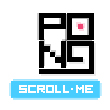
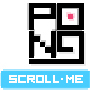
new motion

diff --git a/source/motion/intro_hype_generated_script.js b/source/motion/intro_hype_generated_script.js
@@ -48,7 +48,7 @@
 	
 	var attributeTransformerMapping = {b:"i",c:"i",bC:"i",d:"i",aS:"i",M:"i",e:"f",N:"i",f:"d",aT:"i",O:"i",g:"c",aU:"i",P:"i",Q:"i",aV:"i",R:"c",aW:"f",S:"i",aI:"i",T:"i",l:"d",aX:"i",aJ:"i",m:"c",n:"c",aK:"i",aZ:"i",X:"i",A:"c",Y:"i",aL:"i",B:"c",C:"c",D:"c",t:"i",E:"i",G:"c",bA:"c",a:"i",bB:"i"};
 
-var scenes = [{onSceneAnimationCompleteAction:{type:4,javascriptOid:"19"},timelines:{kTimelineDefaultIdentifier:{framesPerSecond:30,animations:[{f:"4",t:0,d:0.83333331,i:"a",e:-213,r:1,s:-300,o:"2"},{f:"4",t:0,d:0.83333331,i:"b",e:-162,r:1,s:-165,o:"2"},{f:"0",t:0,d:0.1,i:"e",e:"1.000000",r:1,s:"0.000000",o:"9"},{f:"0",t:0.1,d:0.06666667,i:"e",e:"0.320000",s:"1.000000",o:"9"},{f:"0",t:0.16666667,d:0.066666663,i:"e",e:"1.000000",s:"0.320000",o:"9"},{f:"0",t:0.23333333,d:0.13333334,i:"e",e:"0.540000",s:"1.000000",o:"9"},{f:"0",t:0.36666667,d:0.099999994,i:"e",e:"1.000000",s:"0.540000",o:"9"},{f:"4",t:0.46666667,d:0.20000002,i:"e",e:"1.000000",r:1,s:"0.000000",o:"7"},{f:"1",t:0.46666667,d:0.60000002,i:"b",e:144,r:1,s:47,o:"7"},{f:"4",t:0.46666667,d:0.20000002,i:"e",e:"1.000000",r:1,s:"0.000000",o:"8"},{f:"1",t:0.46666667,d:0.49999997,i:"b",e:29,r:1,s:131,o:"8"},{f:"1",t:0.46666667,d:0.36666664,i:"a",e:261,r:1,s:198,o:"9"},{f:"1",t:0.46666667,d:0.36666664,i:"b",e:88,r:1,s:135,o:"9"},{f:"1",t:0.46666667,d:1.6333332,i:"e",e:"1.000000",s:"1.000000",o:"9"},{f:"1",t:0.66666669,d:1.4666667,i:"e",e:"1.000000",s:"1.000000",o:"7"},{f:"1",t:0.66666669,d:1.4333332,i:"e",e:"1.000000",s:"1.000000",o:"8"},{f:"1",t:0.83333331,d:0.36666673,i:"a",e:142,s:261,o:"9"},{f:"1",t:0.83333331,d:0.36666673,i:"b",e:145,s:88,o:"9"},{f:"1",t:0.96666664,d:0.59999996,i:"b",e:131,s:29,o:"8"},{f:"4",t:1.0666667,d:0.5666666,i:"b",e:47,s:144,o:"7"},{f:"1",t:1.2,d:0.43333328,i:"a",e:261,s:142,o:"9"},{f:"1",t:1.2,d:0.43333328,i:"b",e:200,s:145,o:"9"},{f:"1",t:1.5666666,d:0.60000014,i:"b",e:43,s:131,o:"8"},{f:"1",t:1.6333333,d:0.63333333,i:"b",e:151,s:47,o:"7"},{f:"1",t:1.6333333,d:0.50000012,i:"a",e:142,s:261,o:"9"},{f:"1",t:1.6333333,d:0.50000012,i:"b",e:57,s:200,o:"9"},{f:"1",t:2.0999999,d:0.4333334,i:"e",e:"0.000000",s:"1.000000",o:"8"},{f:"1",t:2.0999999,d:0.33333349,i:"e",e:"0.000000",s:"1.000000",o:"9"},{f:"1",t:2.1333334,d:0.43333316,i:"e",e:"0.000000",s:"1.000000",o:"7"},{f:"1",t:2.1333334,d:0.5333333,i:"a",e:261,s:142,o:"9"},{f:"1",t:2.1333334,d:0.5333333,i:"b",e:83,s:57,o:"9"},{f:"1",t:2.1666667,d:0.5666666,i:"b",e:131,s:43,o:"8"},{f:"4",t:2.2666667,d:0.5,i:"b",e:47,s:151,o:"7"}],identifier:"kTimelineDefaultIdentifier",name:"Main Timeline",duration:2.7666667}},sceneIndex:0,perspective:"600px",initialValues:{"8":{o:"content-box",h:"barRight.jpg",x:"visible",a:458,q:"100% 100%",b:131,j:"absolute",r:"inline",c:37,z:"3",k:"div",d:233,e:"0.000000"},"9":{o:"content-box",h:"logoPong.jpg",x:"visible",a:198,q:"100% 100%",b:135,j:"absolute",r:"inline",c:197,z:"4",k:"div",d:198,e:"0.000000"},"7":{o:"content-box",h:"barLeft.jpg",x:"visible",a:105,q:"100% 100%",b:47,j:"absolute",r:"inline",c:37,z:"2",k:"div",d:233,e:"0.000000"},"2":{o:"content-box",h:"scrollpong_intro.jpg",x:"visible",a:-300,q:"100% 100%",b:-165,j:"absolute",r:"none",c:1200,k:"div",z:"1",d:794}},oid:"1",backgroundColor:"#FFFFFF",name:"intro"},{timelines:{kTimelineDefaultIdentifier:{framesPerSecond:30,animations:[{f:"2",t:0,d:0.16666667,i:"e",e:"1.000000",r:1,s:"0.000000",o:"21"},{f:"2",t:0,d:0.16666667,i:"d",e:156,r:1,s:84,o:"21"},{f:"2",t:0,d:0.16666667,i:"a",e:218,r:1,s:300,o:"21"},{f:"2",t:0,d:0.16666667,i:"b",e:166,r:1,s:202,o:"21"},{f:"2",t:0,d:0.16666667,i:"c",e:353,r:1,s:189,o:"21"},{f:"2",t:0.16666667,d:0.16666667,i:"d",e:132,s:156,o:"21"},{f:"2",t:0.16666667,d:0.16666667,i:"a",e:245,s:218,o:"21"},{f:"2",t:0.16666667,d:0.16666667,i:"b",e:178,s:166,o:"21"},{f:"2",t:0.16666667,d:0.16666667,i:"c",e:299,s:353,o:"21"},{f:"4",t:0.2,d:0.10000001,i:"e",e:"1.000000",r:1,s:"0.000000",o:"31"},{f:"2",t:0.23333333,d:0.26666665,i:"c",e:237,r:1,s:12,o:"25"},{f:"2",t:0.23333333,d:0.26666665,i:"b",e:19,r:1,s:198,o:"25"},{f:"2",t:0.23333333,d:0.26666665,i:"a",e:42,r:1,s:265,o:"25"},{f:"2",t:0.23333333,d:0.26666665,i:"f",e:"0deg",r:1,s:"73deg",o:"25"},{f:"2",t:0.23333333,d:0.26666665,i:"d",e:192,r:1,s:10,o:"25"},{f:"2",t:0.23333333,d:0.10000001,i:"e",e:"1.000000",r:1,s:"0.000000",o:"25"},{f:"2",t:0.5,d:0.23333335,i:"c",e:217,s:237,o:"25"},{f:"2",t:0.5,d:0.23333335,i:"b",e:34,s:19,o:"25"},{f:"2",t:0.5,d:0.23333335,i:"a",e:61,s:42,o:"25"},{f:"2",t:0.5,d:0.23333335,i:"d",e:176,s:192,o:"25"},{f:"4",t:1.2,d:0.16666663,i:"a",e:373,r:1,s:344,o:"23"},{f:"4",t:1.2,d:0.099999905,i:"e",e:"1.000000",r:1,s:"0.000000",o:"23"},{f:"2",t:1.3666667,d:0.23333335,i:"b",e:343,r:1,s:359,o:"27"},{f:"2",t:1.3666667,d:0.10000002,i:"e",e:"1.000000",r:1,s:"0.000000",o:"27"},{f:"4",t:1.6,d:0.16666663,i:"a",e:373,r:1,s:343,o:"26"},{f:"4",t:1.6,d:0.10000002,i:"e",e:"1.000000",r:1,s:"0.000000",o:"26"},{f:"2",t:1.7666667,d:0.10000002,i:"e",e:"1.000000",r:1,s:"0.000000",o:"24"},{f:"2",t:1.7666667,d:0.23333335,i:"b",e:375,r:1,s:365,o:"24"}],identifier:"kTimelineDefaultIdentifier",name:"Main Timeline",duration:2}},sceneIndex:1,onSceneKeyUpAction:{type:0},perspective:"600px",initialValues:{"26":{o:"content-box",w:"",h:"icoFb.jpg",x:"visible",a:343,q:"100% 100%",b:375,j:"absolute",r:"inline",aA:{type:4,javascriptOid:"30"},c:22,z:"6",d:20,k:"div",t:17,e:"0.000000",aP:"pointer"},"21":{o:"content-box",h:"boxPoints.jpg",x:"visible",a:300,q:"100% 100%",b:202,j:"absolute",r:"inline",c:189,z:"2",k:"div",d:84,e:"0.000000"},"24":{o:"content-box",h:"txt_share.png",x:"visible",a:399,q:"100% 100%",b:365,j:"absolute",r:"inline",aA:{type:4,javascriptOid:"30"},c:90,z:"7",d:20,k:"div",e:"0.000000",aP:"pointer"},"27":{o:"content-box",h:"txtPlayAgain.png",x:"visible",a:399,q:"100% 100%",b:359,j:"absolute",r:"inline",aA:{type:4,javascriptOid:"29"},c:160,z:"5",d:20,k:"div",e:"0.000000",aP:"pointer"},"22":{o:"content-box",h:"scrollpong_gameover.jpg",x:"visible",a:-183,q:"100% 100%",b:-182,j:"absolute",r:"none",c:1200,k:"div",z:"1",d:794},"25":{o:"content-box",h:"gameOver.png",p:"no-repeat",x:"visible",a:265,q:"100% 100%",b:198,j:"absolute",r:"inline",c:12,z:"3",k:"div",d:10,aY:"0",e:"0.000000",f:"73deg"},"23":{o:"content-box",h:"ico_playAgain.jpg",x:"visible",a:344,q:"100% 100%",b:342,j:"absolute",r:"inline",aA:{type:4,javascriptOid:"29"},c:22,z:"4",d:20,k:"div",e:"0.000000",aP:"pointer"},"31":{aU:0,G:"#000000",c:134,aV:0,r:"inline",d:40,e:"0.000000",X:0,t:25,Y:65,aX:0,Z:"break-word",i:"animScore",w:"New Text",j:"absolute",x:"visible",k:"div",y:"preserve",z:"8",aS:0,aT:0,a:401,F:"center",b:237}},oid:"28",backgroundColor:"#FFFFFF",name:"game over"}];
+var scenes = [{onSceneAnimationCompleteAction:{type:4,javascriptOid:"19"},timelines:{kTimelineDefaultIdentifier:{framesPerSecond:30,animations:[{f:"0",t:0.033333335,d:0.10000001,i:"e",e:"1.000000",r:1,s:"0.000000",o:"9"},{f:"0",t:0.13333334,d:0.066666663,i:"e",e:"0.320000",s:"1.000000",o:"9"},{f:"0",t:0.2,d:0.066666678,i:"e",e:"1.000000",s:"0.320000",o:"9"},{f:"0",t:0.26666668,d:0.13333333,i:"e",e:"0.540000",s:"1.000000",o:"9"},{f:"1",t:0.33333334,d:0.79999995,i:"a",e:194,r:1,s:280,o:"7"},{f:"1",t:0.33333334,d:0.66666663,i:"a",e:222,r:1,s:100,o:"8"},{f:"3",t:0.36666667,d:0.30000001,i:"b",e:172,r:1,s:177,o:"9"},{f:"3",t:0.36666667,d:0.30000001,i:"a",e:255,r:1,s:268,o:"9"},{f:"0",t:0.40000001,d:0.099999994,i:"e",e:"1.000000",s:"0.540000",o:"9"},{f:"4",t:0.46666667,d:0.29999998,i:"e",e:"1.000000",r:1,s:"0.000000",o:"7"},{f:"1",t:0.5,d:1.7666667,i:"e",e:"1.000000",s:"1.000000",o:"9"},{f:"4",t:0.56666666,d:0.26666665,i:"e",e:"1.000000",r:1,s:"0.000000",o:"8"},{f:"3",t:0.66666669,d:0.36666662,i:"a",e:265,s:255,o:"9"},{f:"3",t:0.66666669,d:0.36666662,i:"b",e:182,s:172,o:"9"},{f:"1",t:0.76666665,d:1.5,i:"e",e:"1.000000",s:"1.000000",o:"7"},{f:"1",t:0.83333331,d:1.4666667,i:"e",e:"1.000000",s:"1.000000",o:"8"},{f:"1",t:1,d:0.86666667,i:"a",e:130,s:222,o:"8"},{f:"3",t:1.0333333,d:0.4333334,i:"b",e:172,s:182,o:"9"},{f:"3",t:1.0333333,d:0.4333334,i:"a",e:277,s:265,o:"9"},{f:"1",t:1.1333333,d:0.80000007,i:"a",e:280,s:194,o:"7"},{f:"3",t:1.4666667,d:0.39999998,i:"b",e:182,s:172,o:"9"},{f:"3",t:1.4666667,d:0.39999998,i:"a",e:288,s:277,o:"9"},{f:"3",t:1.8666667,d:0.43333328,i:"b",e:172,s:182,o:"9"},{f:"3",t:1.8666667,d:0.43333328,i:"a",e:265,s:288,o:"9"},{f:"1",t:1.8666667,d:0.66666663,i:"a",e:216,s:130,o:"8"},{f:"1",t:1.9333334,d:0.5,i:"a",e:194,s:280,o:"7"},{f:"1",t:2.2666667,d:0.33333325,i:"e",e:"0.000000",s:"1.000000",o:"7"},{f:"1",t:2.2666667,d:0.33333325,i:"e",e:"0.000000",s:"1.000000",o:"9"},{f:"3",t:2.3,d:0.4666667,i:"b",e:188,s:172,o:"9"},{f:"3",t:2.3,d:0.4666667,i:"a",e:254,s:265,o:"9"},{f:"1",t:2.3,d:0.36666679,i:"e",e:"0.000000",s:"1.000000",o:"8"},{f:"1",t:2.4333334,d:0.5,i:"a",e:280,s:194,o:"7"},{f:"1",t:2.5333333,d:0.4000001,i:"a",e:128,s:216,o:"8"}],identifier:"kTimelineDefaultIdentifier",name:"Main Timeline",duration:2.9333334}},sceneIndex:0,perspective:"600px",initialValues:{"8":{o:"content-box",h:"barRight2.png",p:"no-repeat",x:"visible",a:100,q:"100% 100%",b:136,j:"absolute",r:"inline",c:221,z:"4",k:"div",d:35,e:"0.000000"},"36":{o:"content-box",h:"guide.jpg",x:"visible",a:-301,q:"100% 100%",b:-183,j:"absolute",r:"none",c:1201,k:"div",z:"2",d:734},"9":{o:"content-box",w:"",h:"logoPong.jpg",p:"no-repeat",x:"visible",a:268,q:"100% 100%",b:177,j:"absolute",r:"inline",c:64,z:"5",k:"div",d:64,t:17,e:"0.000000"},"7":{o:"content-box",h:"barLeft2.png",p:"no-repeat",x:"visible",a:280,q:"100% 100%",b:246,j:"absolute",r:"inline",c:221,z:"3",k:"div",d:35,e:"0.000000"}},oid:"1",backgroundColor:"#FFFFFF",name:"intro"},{timelines:{kTimelineDefaultIdentifier:{framesPerSecond:30,animations:[{f:"2",t:0,d:0.16666667,i:"e",e:"1.000000",r:1,s:"0.000000",o:"21"},{f:"2",t:0,d:0.16666667,i:"d",e:156,r:1,s:84,o:"21"},{f:"2",t:0,d:0.16666667,i:"a",e:218,r:1,s:300,o:"21"},{f:"2",t:0,d:0.16666667,i:"b",e:166,r:1,s:202,o:"21"},{f:"2",t:0,d:0.16666667,i:"c",e:353,r:1,s:189,o:"21"},{f:"2",t:0.16666667,d:0.16666667,i:"d",e:132,s:156,o:"21"},{f:"2",t:0.16666667,d:0.16666667,i:"a",e:245,s:218,o:"21"},{f:"2",t:0.16666667,d:0.16666667,i:"b",e:178,s:166,o:"21"},{f:"2",t:0.16666667,d:0.16666667,i:"c",e:299,s:353,o:"21"},{f:"4",t:0.2,d:0.10000001,i:"e",e:"1.000000",r:1,s:"0.000000",o:"34"},{f:"2",t:0.23333333,d:0.26666665,i:"c",e:237,r:1,s:12,o:"25"},{f:"2",t:0.23333333,d:0.26666665,i:"b",e:19,r:1,s:198,o:"25"},{f:"2",t:0.23333333,d:0.26666665,i:"a",e:42,r:1,s:265,o:"25"},{f:"2",t:0.23333333,d:0.26666665,i:"f",e:"0deg",r:1,s:"73deg",o:"25"},{f:"2",t:0.23333333,d:0.26666665,i:"d",e:192,r:1,s:10,o:"25"},{f:"2",t:0.23333333,d:0.10000001,i:"e",e:"1.000000",r:1,s:"0.000000",o:"25"},{f:"2",t:0.5,d:0.23333335,i:"c",e:217,s:237,o:"25"},{f:"2",t:0.5,d:0.23333335,i:"b",e:34,s:19,o:"25"},{f:"2",t:0.5,d:0.23333335,i:"a",e:61,s:42,o:"25"},{f:"2",t:0.5,d:0.23333335,i:"d",e:176,s:192,o:"25"},{f:"4",t:1.2,d:0.16666663,i:"a",e:373,r:1,s:344,o:"23"},{f:"4",t:1.2,d:0.099999905,i:"e",e:"1.000000",r:1,s:"0.000000",o:"23"},{f:"2",t:1.3666667,d:0.23333335,i:"b",e:343,r:1,s:359,o:"27"},{f:"2",t:1.3666667,d:0.10000002,i:"e",e:"1.000000",r:1,s:"0.000000",o:"27"},{f:"4",t:1.6,d:0.16666663,i:"a",e:373,r:1,s:343,o:"26"},{f:"4",t:1.6,d:0.10000002,i:"e",e:"1.000000",r:1,s:"0.000000",o:"26"},{f:"2",t:1.7666667,d:0.10000002,i:"e",e:"1.000000",r:1,s:"0.000000",o:"24"},{f:"2",t:1.7666667,d:0.23333335,i:"b",e:375,r:1,s:365,o:"24"}],identifier:"kTimelineDefaultIdentifier",name:"Main Timeline",duration:2}},sceneIndex:1,onSceneKeyUpAction:{type:0},perspective:"600px",initialValues:{"26":{o:"content-box",w:"",h:"icoFb.jpg",x:"visible",a:343,q:"100% 100%",b:375,j:"absolute",r:"inline",aA:{type:4,javascriptOid:"30"},c:22,z:"6",d:20,k:"div",t:17,e:"0.000000",aP:"pointer"},"34":{aU:8,G:"#000000",c:129,aV:8,r:"inline",d:52,e:"0.000000",t:16,aX:2.68255,Z:"break-word",i:"animScore",w:"New Text",j:"absolute",x:"visible",k:"div",y:"preserve",z:"9",aS:8,aT:8,a:399,F:"left",b:210},"21":{o:"content-box",h:"boxPoints.jpg",x:"visible",a:300,q:"100% 100%",b:202,j:"absolute",r:"inline",c:189,z:"2",k:"div",d:84,e:"0.000000"},"24":{o:"content-box",h:"txt_share.png",x:"visible",a:399,q:"100% 100%",b:365,j:"absolute",r:"inline",aA:{type:4,javascriptOid:"30"},c:90,z:"7",d:20,k:"div",e:"0.000000",aP:"pointer"},"27":{o:"content-box",h:"txtPlayAgain.png",x:"visible",a:399,q:"100% 100%",b:359,j:"absolute",r:"inline",aA:{type:4,javascriptOid:"29"},c:160,z:"5",d:20,k:"div",e:"0.000000",aP:"pointer"},"22":{o:"content-box",h:"scrollpong_gameover.jpg",x:"visible",a:-183,q:"100% 100%",b:-182,j:"absolute",r:"none",c:1200,k:"div",z:"1",d:794},"25":{o:"content-box",h:"gameOver.png",p:"no-repeat",x:"visible",a:265,q:"100% 100%",b:198,j:"absolute",r:"inline",c:12,z:"3",k:"div",d:10,aY:"0",e:"0.000000",f:"73deg"},"23":{o:"content-box",h:"ico_playAgain.jpg",x:"visible",a:344,q:"100% 100%",b:342,j:"absolute",r:"inline",aA:{type:4,javascriptOid:"29"},c:22,z:"4",d:20,k:"div",e:"0.000000",aP:"pointer"}},oid:"28",backgroundColor:"#FFFFFF",name:"game over"}];
 
 
 	
